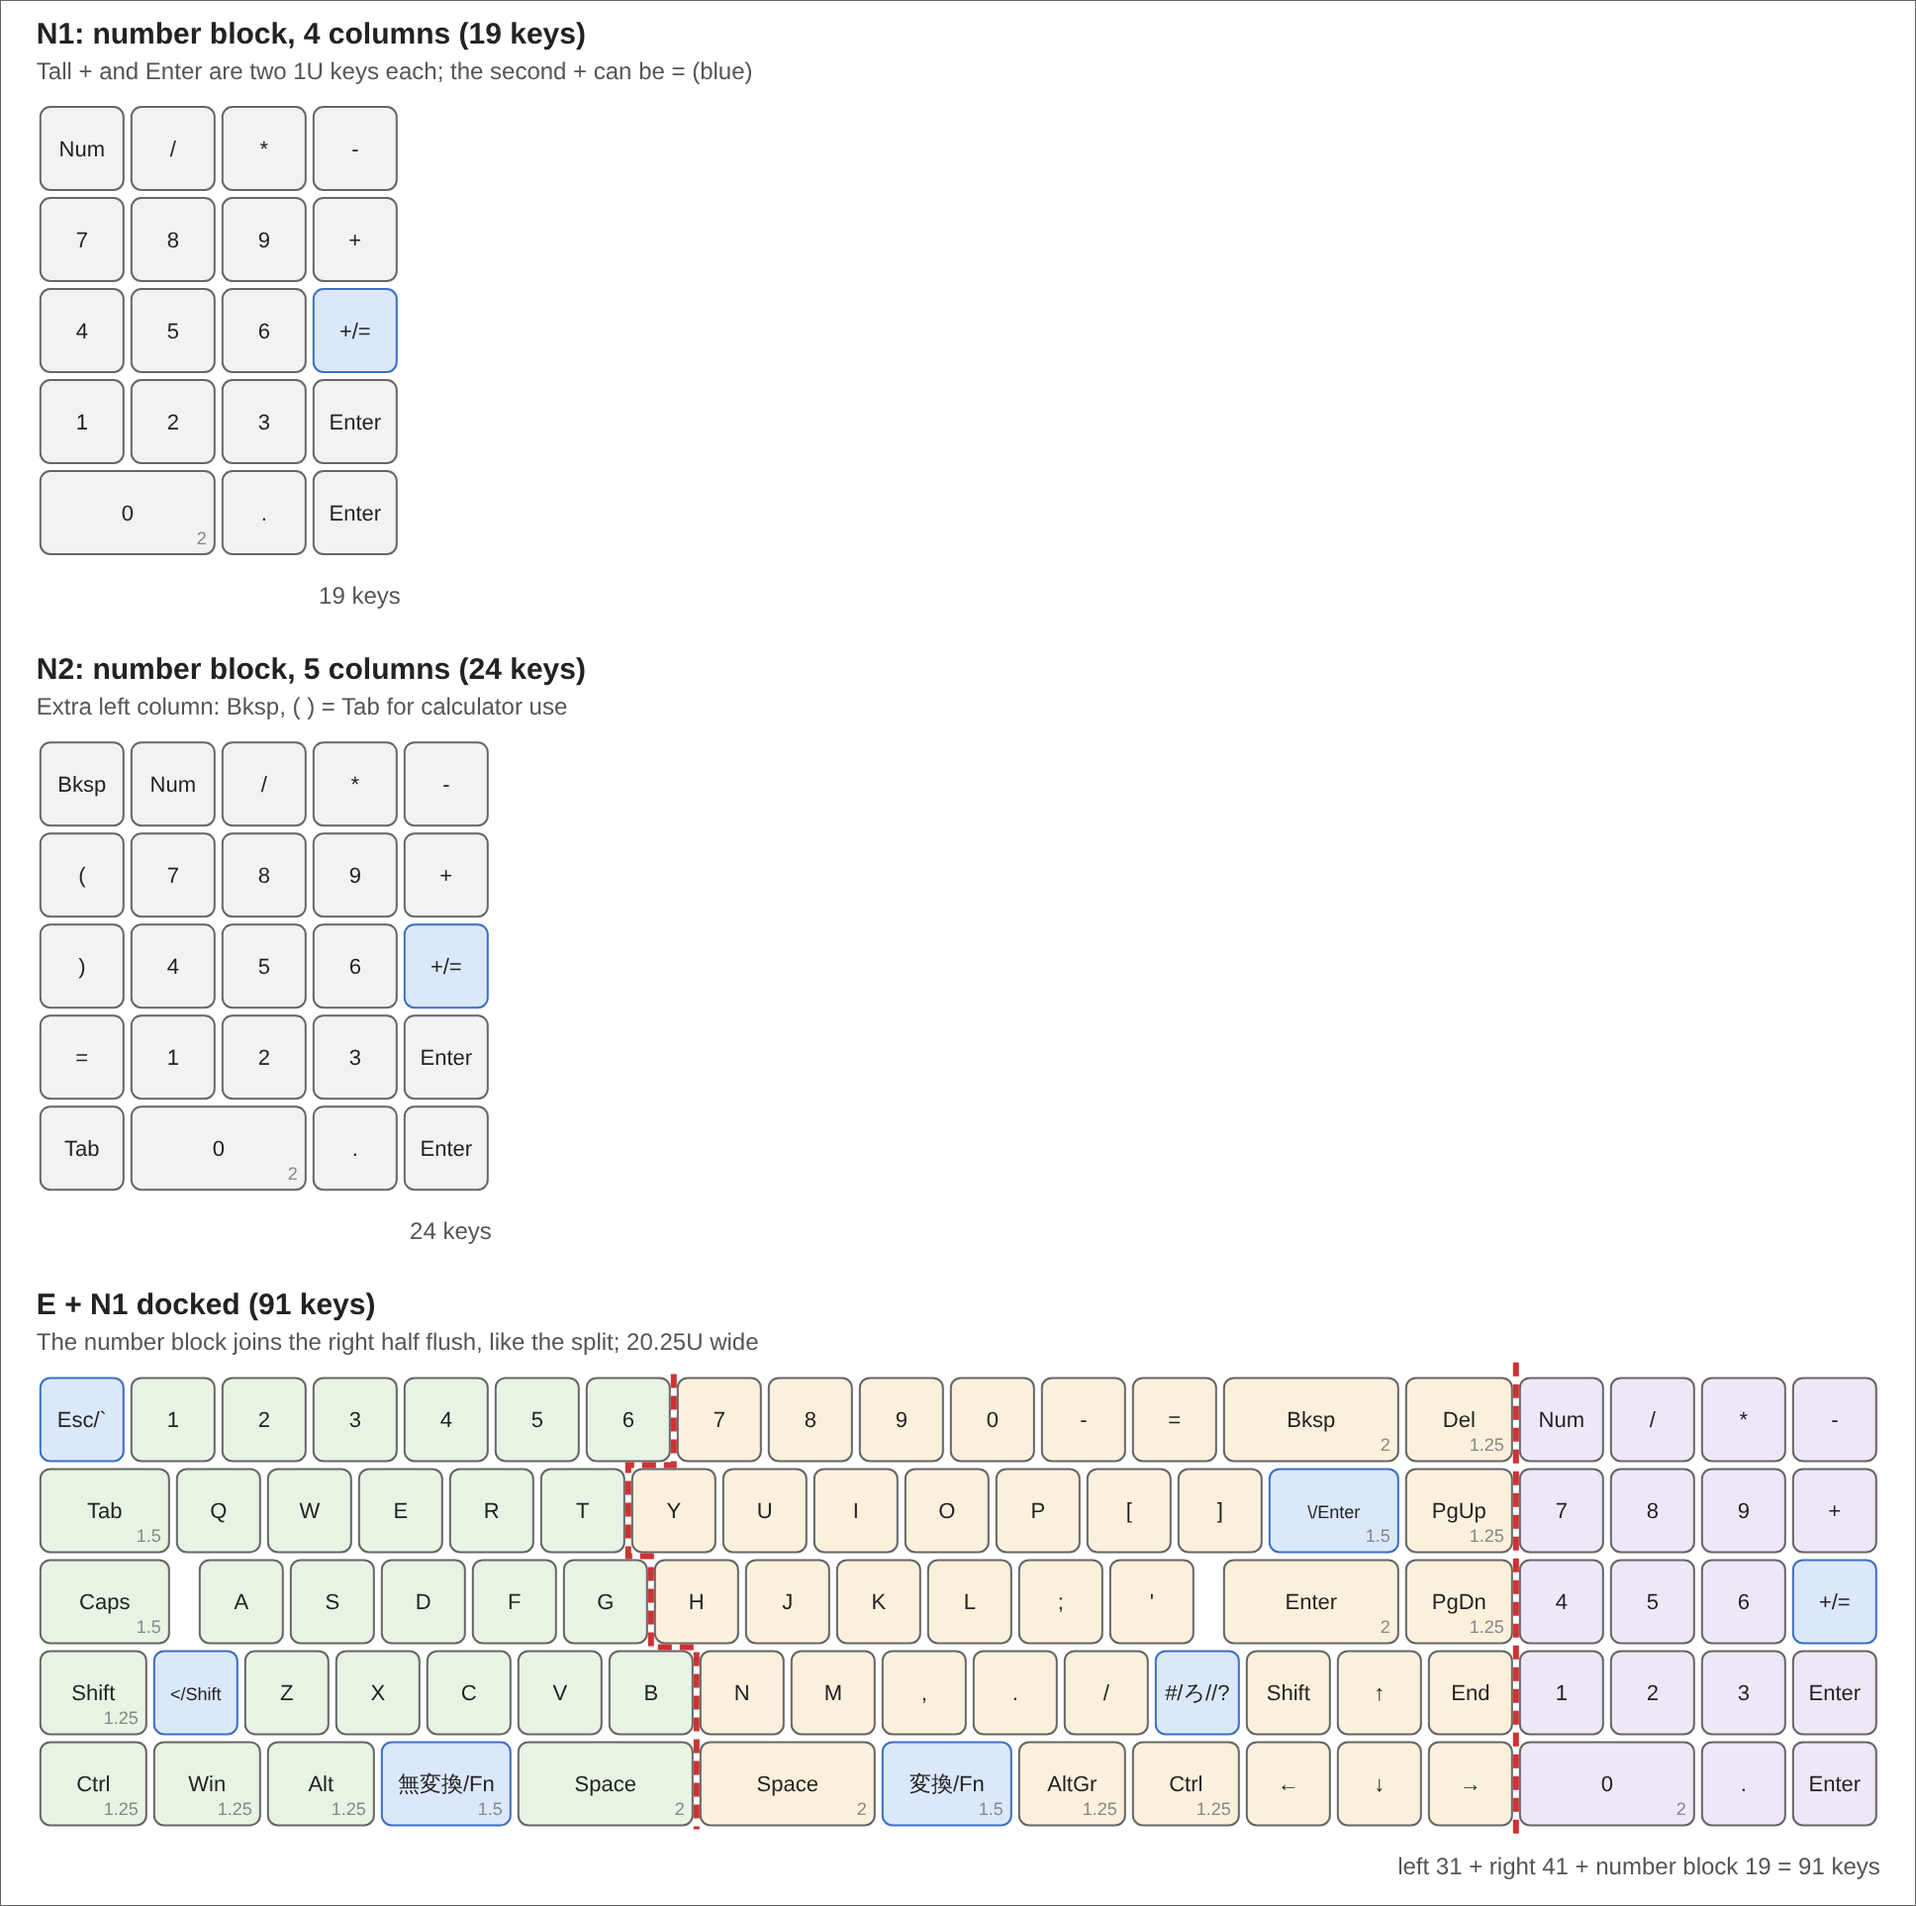
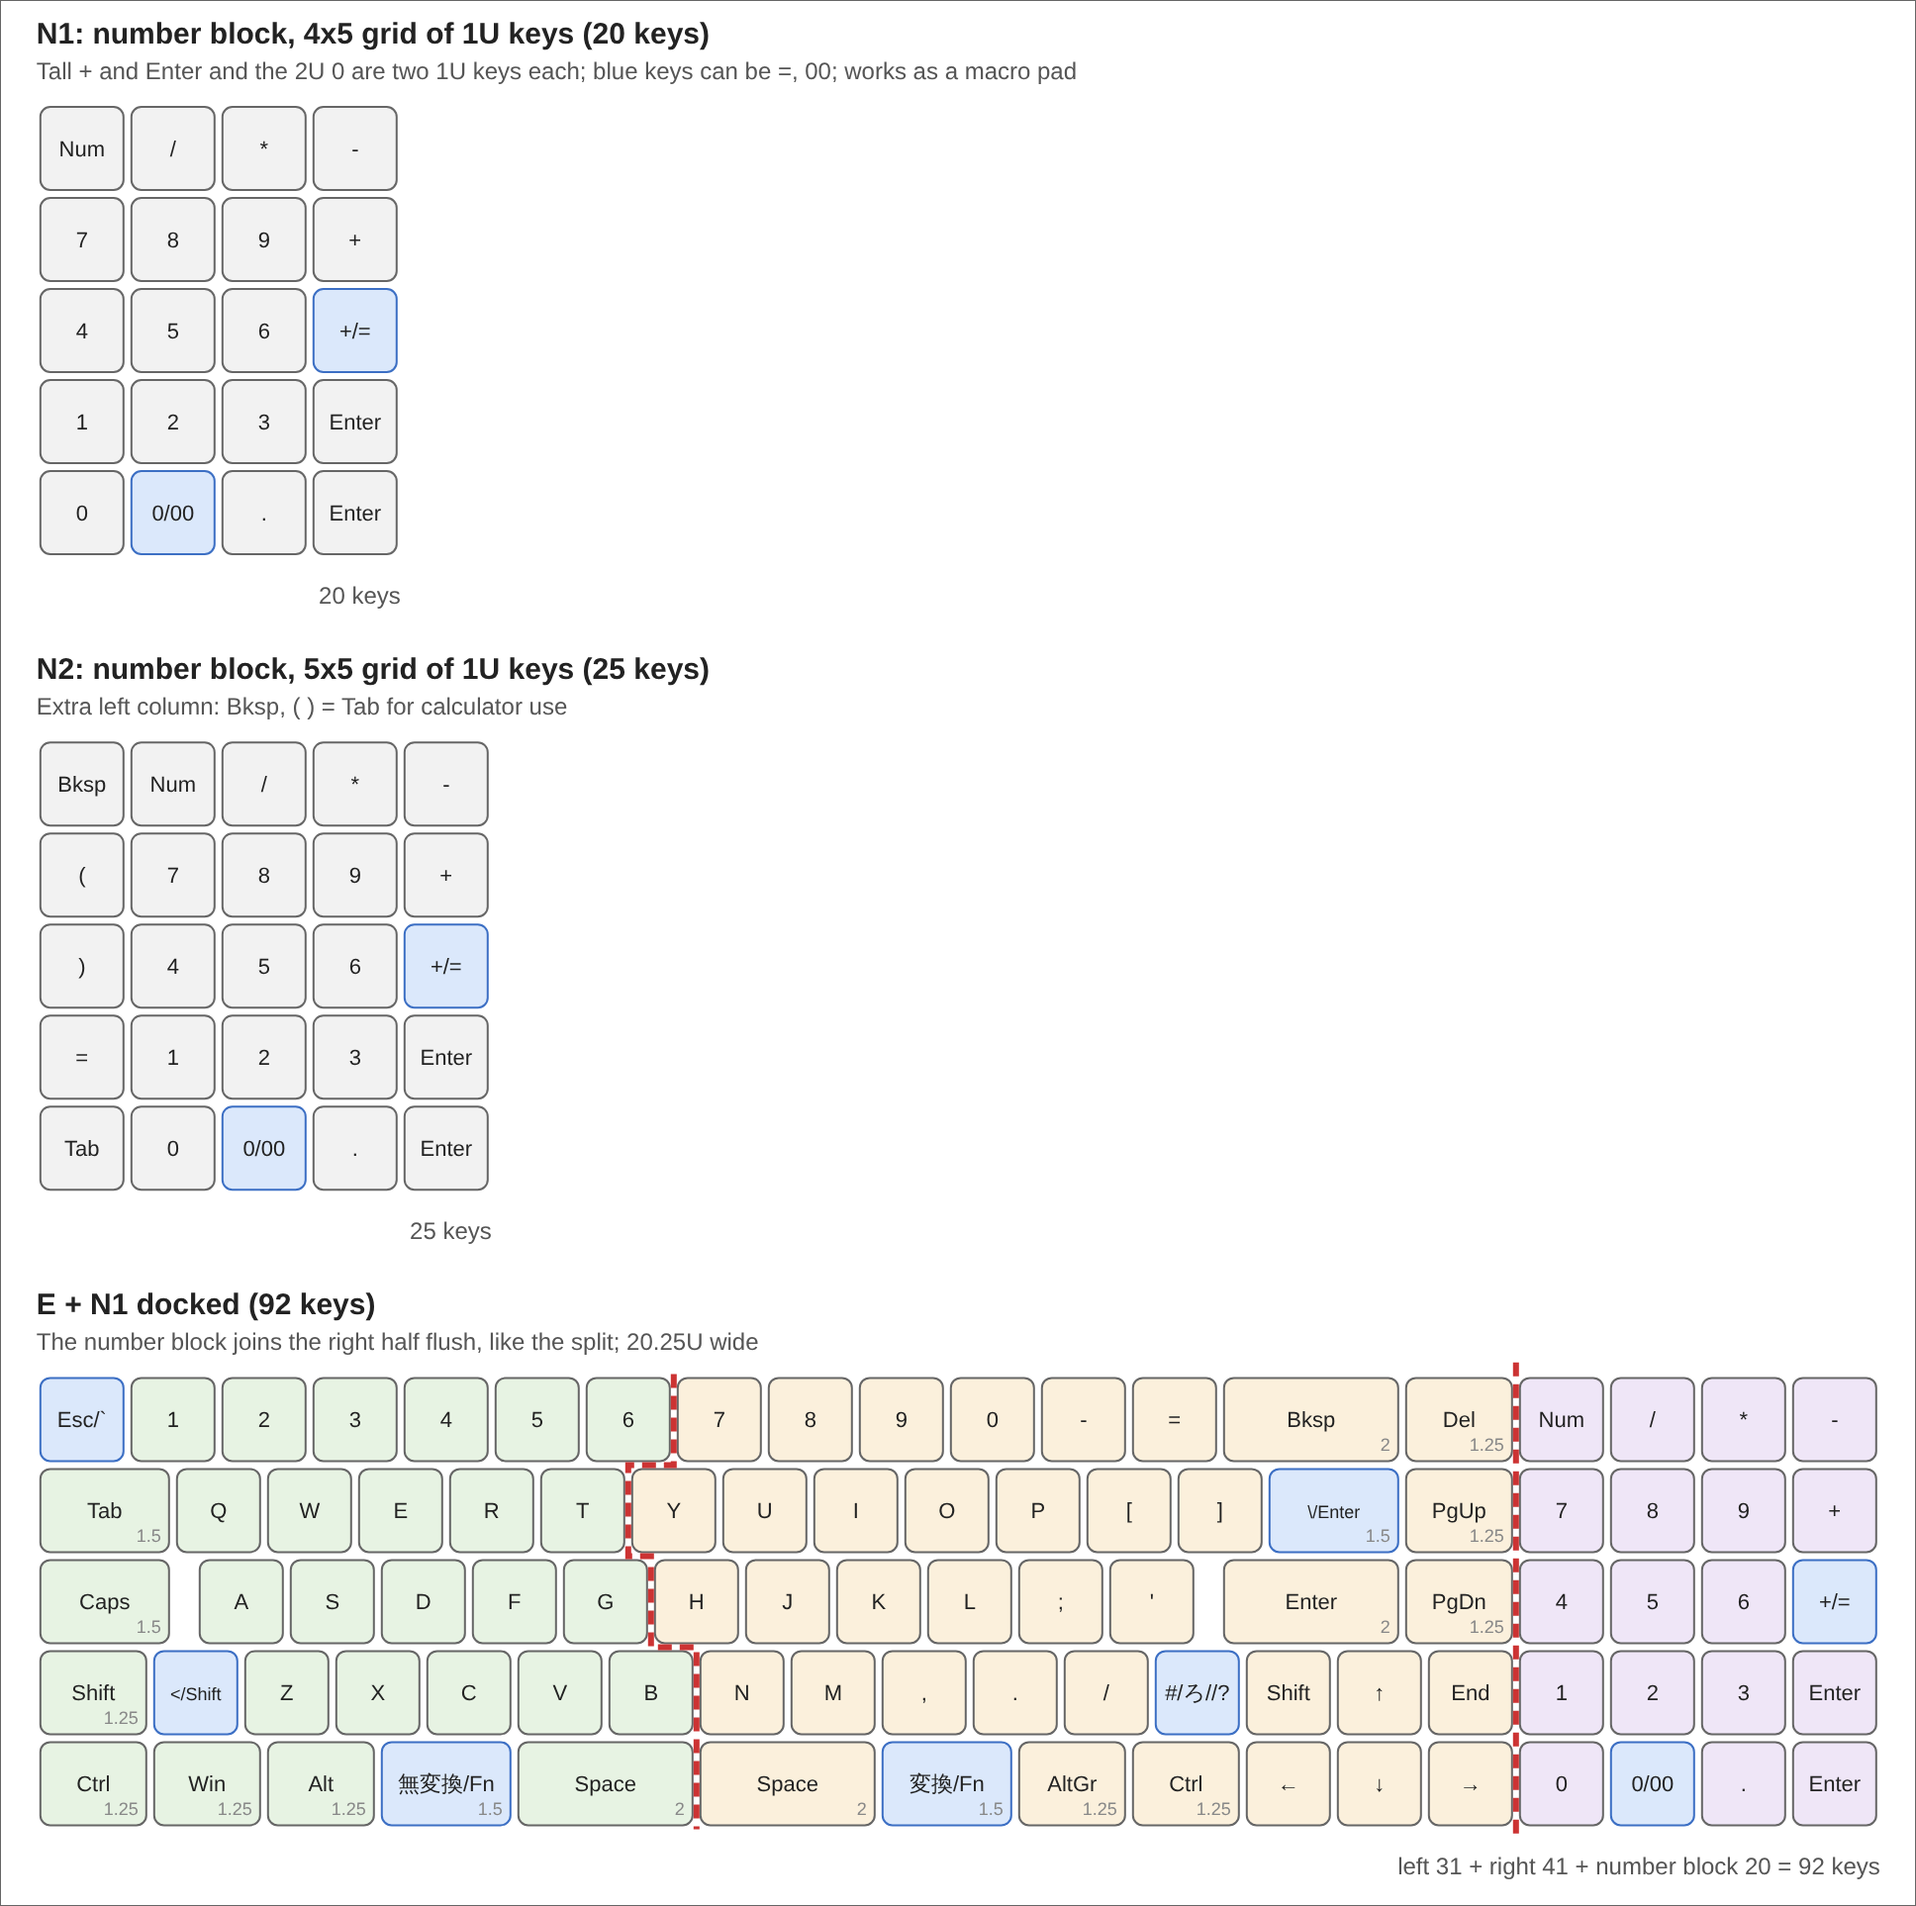
Layout study: number block as a grid of 1U keys
The 2U 0 becomes 0 and 0/00, so N1 is a 4x5 grid (20 keys, fills its 5x4
matrix) and N2 a 5x5 grid (25 keys). With only 1U keys the block also works
as a macro pad.

Claude-Session: https://claude.ai/code/session_01U989dwa8qfqDTeXimD42CV

diff --git a/docs/layout_study/tkl_layouts.py b/docs/layout_study/tkl_layouts.py
@@ -169,12 +169,13 @@ COMPACT = [
     },
 ]
 
-# Number block: 5 rows like layout E. The tall + and Enter become two 1U keys each.
+# Number block: 5 rows like layout E, all 1U (a 4x5 grid that also works as a macro pad).
+# The tall + and Enter and the 2U 0 become two 1U keys each.
 NP4 = {"n": [(1, "Num"), (1, "/"), (1, "*"), (1, "-")],
        "t": [(1, "7"), (1, "8"), (1, "9"), (1, "+")],
        "c": [(1, "4"), (1, "5"), (1, "6"), (1, "+|=")],
        "s": [(1, "1"), (1, "2"), (1, "3"), (1, "Enter")],
-       "b": [(2, "0"), (1, "."), (1, "Enter")]}
+       "b": [(1, "0"), (1, "0|00"), (1, "."), (1, "Enter")]}
 NP5 = {"n": [(1, "Bksp")] + NP4["n"], "t": [(1, "(")] + NP4["t"], "c": [(1, ")")] + NP4["c"],
        "s": [(1, "=")] + NP4["s"], "b": [(1, "Tab")] + NP4["b"]}
 NP_X = 16.25          # the number block docks to the right edge of layout E
@@ -186,23 +187,23 @@ def _docked(e_rows, pad):
 
 NUMPAD = [
     {
-        "name": "N1: number block, 4 columns (19 keys)",
-        "note": "Tall + and Enter are two 1U keys each; the second + can be = (blue)",
+        "name": "N1: number block, 4x5 grid of 1U keys (20 keys)",
+        "note": "Tall + and Enter and the 2U 0 are two 1U keys each; blue keys can be =, 00; works as a macro pad",
         "rows": NP4, "nav": [], "main_w": 4, "split": False,
     },
     {
-        "name": "N2: number block, 5 columns (24 keys)",
+        "name": "N2: number block, 5x5 grid of 1U keys (25 keys)",
         "note": "Extra left column: Bksp, ( ) = Tab for calculator use",
         "rows": NP5, "nav": [], "main_w": 5, "split": False,
     },
     {
-        "name": "E + N1 docked (91 keys)",
+        "name": "E + N1 docked (92 keys)",
         "note": "The number block joins the right half flush, like the split; 20.25U wide",
         "rows": "E+N1", "nav": [], "main_w": NP_X + 4, "split": True, "pad_x": NP_X,
     },
 ]
 
-VARIABLE = {"+|=", "Esc|`", "#|ろ|/?", "¥|Bksp", "\\|Enter", "#|Enter", "<|Shift", "ろ|/?|Fn", "無変換|Fn", "変換|Fn"}
+VARIABLE = {"+|=", "0|00", "Esc|`", "#|ろ|/?", "¥|Bksp", "\\|Enter", "#|Enter", "<|Shift", "ろ|/?|Fn", "無変換|Fn", "変換|Fn"}
 
 
 def place(layout):

diff --git a/docs/layout_study/export_layout_e.py b/docs/layout_study/export_layout_e.py
@@ -9,7 +9,7 @@ Writes, next to this script:
                       (rows 0-5 left, 6-11 right)
 - layout_e_keys.json  every key with position, width, half, legend, for the renderer
 - layout_e_legends.png  one 72x40 legend cell per key (white on black), for the renderer
-- numpad_n1.kle.json, numpad_n1.qmk.json  the 19-key number block N1, 5x4 matrix
+- numpad_n1.kle.json, numpad_n1.qmk.json  the 20-key number block N1, 5x4 matrix
 """
 import json
 import os
@@ -100,7 +100,7 @@ def export_numpad():
             k["matrix"] = [row, c]
     json.dump(kle(ks, "PolyKybd number block N1"), open(os.path.join(HERE, "numpad_n1.kle.json"), "w"), ensure_ascii=False, indent=1)
     qmk = {"matrix_size": {"rows": 5, "cols": 4},
-           "layouts": {"LAYOUT_numpad19": {"layout": [
+           "layouts": {"LAYOUT_numpad20": {"layout": [
                {"label": k["label"], "matrix": k["matrix"], "x": k["x"], "y": k["row"],
                 **({"w": k["w"]} if k["w"] != 1 else {})} for k in ks]}}}
     json.dump(qmk, open(os.path.join(HERE, "numpad_n1.qmk.json"), "w"), ensure_ascii=False, indent=1)

diff --git a/docs/layout_study/README.md b/docs/layout_study/README.md
@@ -12,7 +12,7 @@ connected position the halves touch along that line.
 | `tkl_layouts.svg/.png` | ANSI and ISO TKL references, A (ANSI only, 90 keys), B (universal TKL, 94 keys) |
 | `compact_layouts.svg/.png` | No F-row: C (full nav, 78), D (one nav column, 74), E (65 %, 72), F (E without End, 71) |
 | `e_vs_65.svg/.png` | Layout E next to a standard ANSI 65 % board |
-| `numpad_layouts.svg/.png` | Number blocks N1 (19 keys) and N2 (24 keys), and E with N1 docked on the right |
+| `numpad_layouts.svg/.png` | Number blocks N1 (4x5, 20 keys) and N2 (5x5, 25 keys), all 1U, and E with N1 docked on the right |
 | `export_layout_e.py` | Writes the JSON files below from `tkl_layouts.py` |
 | `layout_e.kle.json` | Layout E for keyboard-layout-editor.com (paste into the Raw data tab) |
 | `layout_e.qmk.json` | Layout E as a QMK `layouts` entry, 6x7 matrix per half (rows 0-5 left, 6-11 right) |
